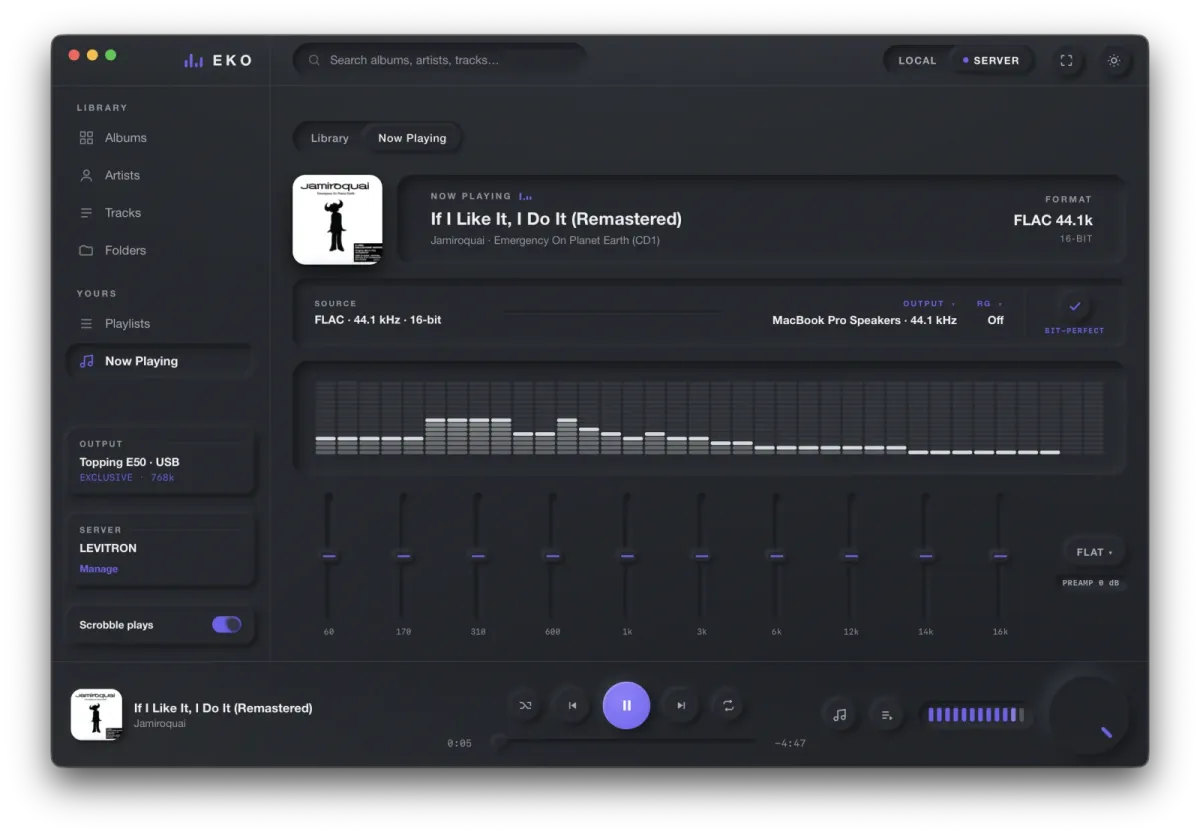
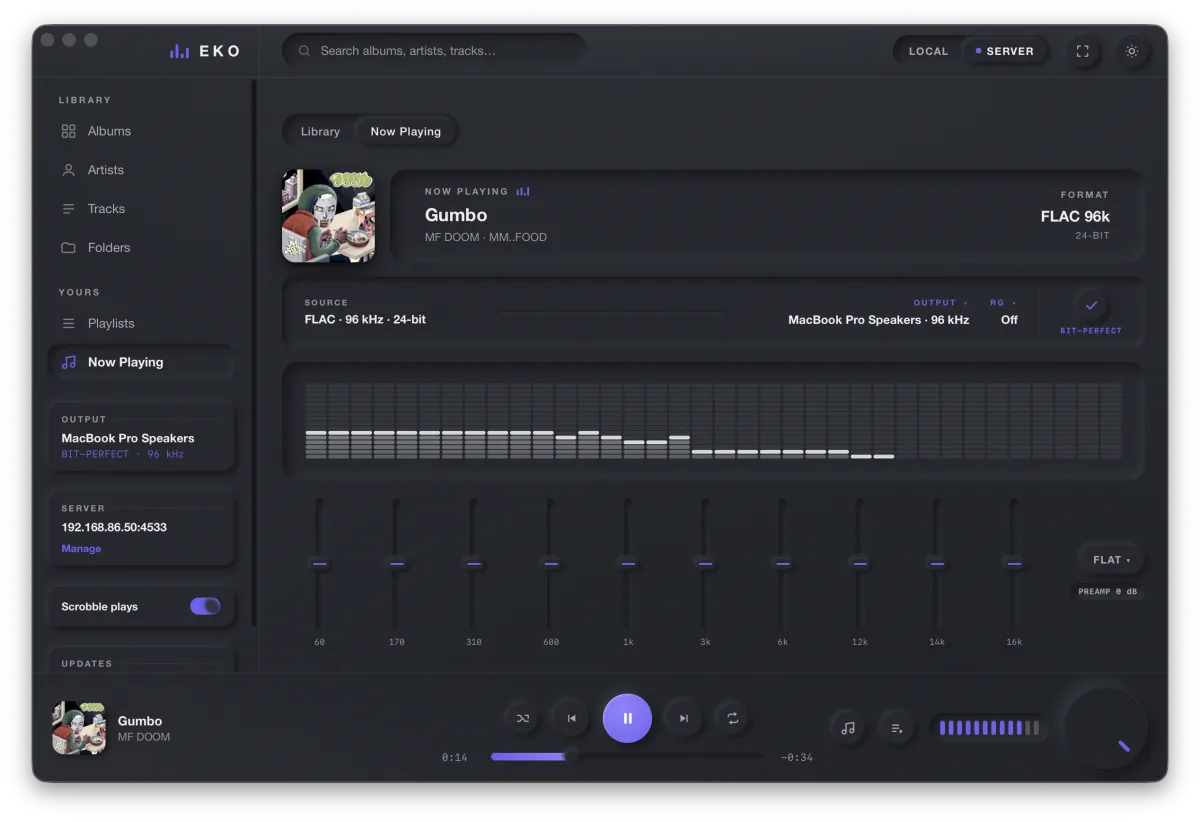
docs: refresh README hero with demo GIF + new screenshots
Replace the static banner with a demo GIF showing the bit-perfect
signal-path seal live-downgrading, swap in fresh light/dark hero
shots plus a mini-player screenshot, and drop the now-orphaned
Pro-only example targets from Cargo.toml.

diff --git a/README.md b/README.md
@@ -11,10 +11,7 @@ Native Rust audio engine · neumorphic Braun-inspired UI · local files + Navidr
 [![Platform: macOS](https://img.shields.io/badge/platform-macOS-2c2b27.svg)](#requirements)
 [![Built with Tauri](https://img.shields.io/badge/built%20with-Tauri%202-24c8db.svg)](https://tauri.app)
 
-<img src="./docs/assets/og.png" alt="EKO — a bit-perfect audiophile music player for macOS" width="820" />
-
-<!-- This is the brand banner. A real app screenshot (captured at 2× from the running app)
-     should replace it as the hero once available — see “Screenshots” below. -->
+<img src="./screenshots/eko-demo.gif" alt="EKO demo — browsing a library, Now Playing with the bit-perfect signal-path seal, EQ presets, and the light/dark Porcelain skin" width="820" />
 
 </div>
 
@@ -81,13 +78,18 @@ EKO is signed and notarized by Apple, so it opens with a normal double-click —
 ## Screenshots
 
 <p align="center">
-  <img src="./screenshots/eko-light.webp" alt="EKO Now Playing — light (Porcelain): Radiohead, Kid A, FLAC 44.1k, bit-perfect, with the signal-path seal, spectrum and 10-band EQ" width="840" />
+  <img src="./screenshots/eko-light.webp" alt="EKO Now Playing — light (Porcelain): Jeff Buckley, Grace, FLAC 44.1k 16-bit, bit-perfect, with the signal-path seal, spectrum and 10-band EQ" width="840" />
   <br><sub><em>Now Playing — light (Porcelain)</em></sub>
 </p>
 
 <p align="center">
-  <img src="./screenshots/eko-dark.webp" alt="EKO Now Playing — dark (Graphite): Jamiroquai, FLAC 44.1k, bit-perfect, driving a Topping E50 in exclusive mode at 768k" width="840" />
+  <img src="./screenshots/eko-dark.webp" alt="EKO Now Playing — dark (Graphite): MF DOOM, MM..FOOD, FLAC 96k 24-bit, bit-perfect" width="840" />
   <br><sub><em>Now Playing — dark (Graphite)</em></sub>
+</p>
+
+<p align="center">
+  <img src="./screenshots/eko-mini.webp" alt="EKO mini player — a compact always-on-top window showing Jeff Buckley, Lilac Wine, with transport controls" width="560" />
+  <br><sub><em>Mini player — always-on-top, reads engine state directly</em></sub>
 </p>
 
 The site and docs are live at **[eko.reactivepixels.com](https://eko.reactivepixels.com)**:
